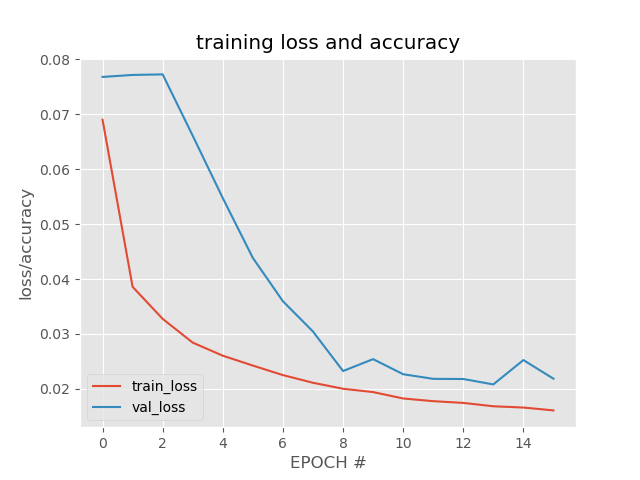
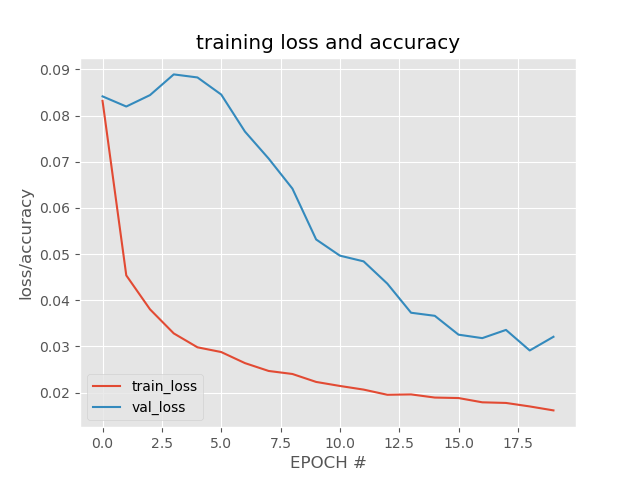
retrained 2

diff --git a/train_autoencoder.py b/train_autoencoder.py
@@ -13,6 +13,8 @@ from PIL import Image
 from sklearn.model_selection import train_test_split
 import os
 
+os.environ["CUDA_VISIBLE_DEVICES"] = "-1"
+
 # def visualize_predictions(decoded, gt, samples=10):
 #     #initialize our list of output samples
 #     outputs = None
@@ -51,9 +53,9 @@ args = vars(ap.parse_args())
 
 #PREPARE TO TRAIN THE AUTOENCODER
 #initialise the number of epochs to train for, initial learning rate and batch size
-EPOCHS = 16
+EPOCHS = 20
 INIT_LR = 1e-3
-BS = 16
+BS = 32
 #epochs = cycle through the full training set
 #INIT_LR = learning rate (initial)
 #BS = Batch size = number of training samples in one forward pass (<= number of samples ind train set)
